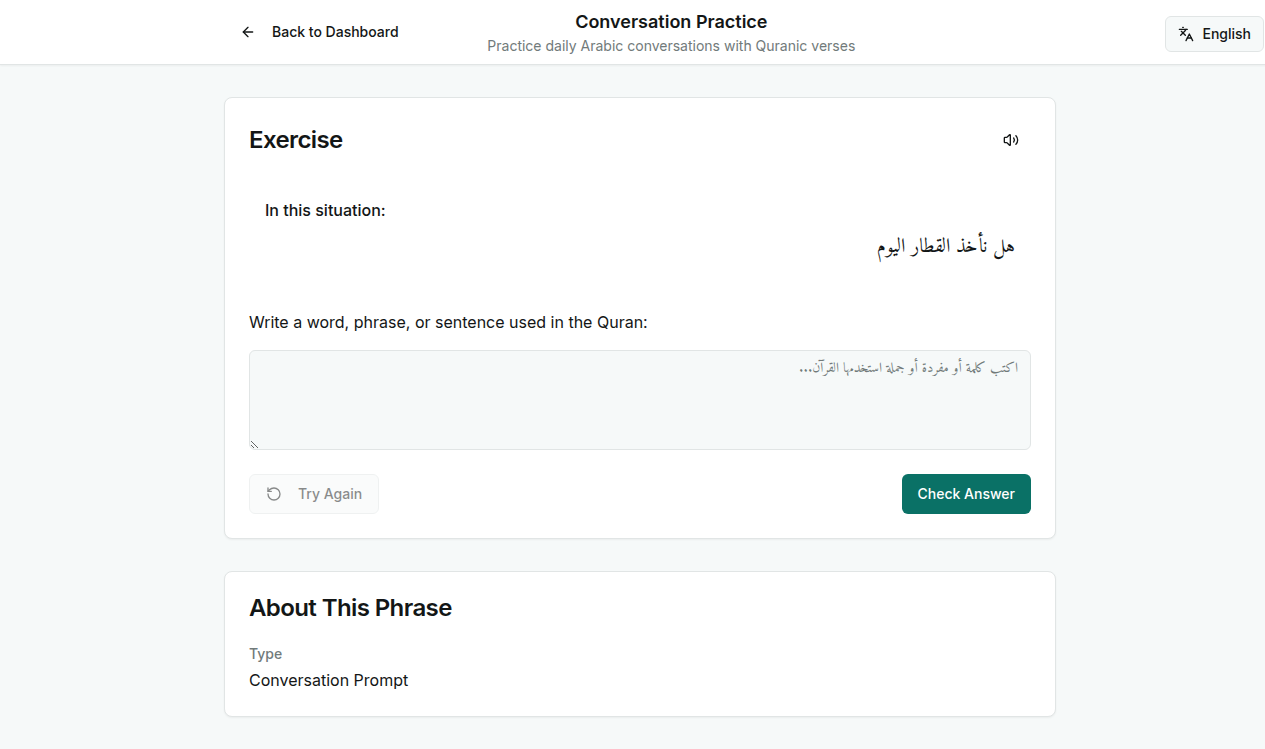
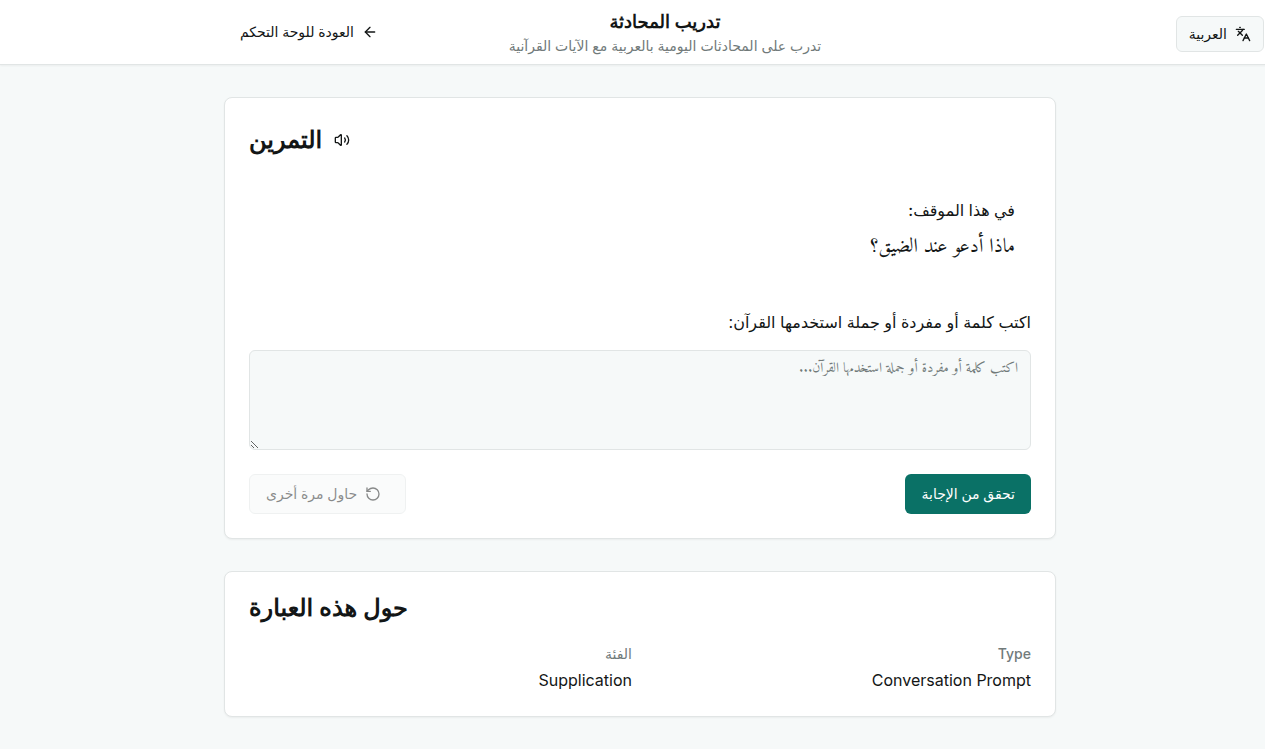
Add Arabic translations for exercise and scenario pages
Update client/lib/translations.ts and client/pages/exercise.tsx to include Arabic translations for new keys related to the exercise and scenario components.

Replit-Commit-Author: Agent
Replit-Commit-Session-Id: 54e8de31-b608-4159-b2bc-5883d54bbff0
Replit-Commit-Checkpoint-Type: full_checkpoint
Replit-Commit-Event-Id: 1c7c83a6-d97d-4b77-85cb-0d67763bec3f
Replit-Commit-Screenshot-Url: https://storage.googleapis.com/screenshot-production-us-central1/93aa2e94-491d-4864-b451-4bb38c870771/54e8de31-b608-4159-b2bc-5883d54bbff0/gyX4fOg

diff --git a/client/src/lib/translations.ts b/client/src/lib/translations.ts
@@ -45,6 +45,13 @@ export const translations = {
     thematicDesc: "Apply verses to real situations",
     
     // Exercise Page
+    exercise: "Exercise",
+    scenario: "Scenario",
+    aboutThisPhrase: "About This Phrase",
+    aboutThisQuestion: "About This Question",
+    category: "Category",
+    source: "Source",
+    yourResponseInArabic: "Your response in Arabic",
     backToDashboard: "Back to Dashboard",
     checkAnswer: "Check Answer",
     nextExercise: "Next Exercise",
@@ -235,6 +242,13 @@ export const translations = {
     thematicDesc: "طبق الآيات على المواقف الحقيقية",
     
     // Exercise Page
+    exercise: "التمرين",
+    scenario: "السيناريو",
+    aboutThisPhrase: "حول هذه العبارة",
+    aboutThisQuestion: "حول هذا السؤال",
+    category: "الفئة",
+    source: "المصدر",
+    yourResponseInArabic: "إجابتك بالعربية",
     backToDashboard: "العودة للوحة التحكم",
     checkAnswer: "تحقق من الإجابة",
     nextExercise: "التمرين التالي",
@@ -425,6 +439,13 @@ export const translations = {
     thematicDesc: "Terapkan ayat ke situasi nyata",
     
     // Exercise Page
+    exercise: "Latihan",
+    scenario: "Skenario",
+    aboutThisPhrase: "Tentang Frasa Ini",
+    aboutThisQuestion: "Tentang Pertanyaan Ini",
+    category: "Kategori",
+    source: "Sumber",
+    yourResponseInArabic: "Respons Anda dalam bahasa Arab",
     backToDashboard: "Kembali ke Dasbor",
     checkAnswer: "Periksa Jawaban",
     nextExercise: "Latihan Berikutnya",
@@ -615,6 +636,13 @@ export const translations = {
     thematicDesc: "Ayetleri gerçek durumlara uygulayın",
     
     // Exercise Page
+    exercise: "Egzersiz",
+    scenario: "Senaryo",
+    aboutThisPhrase: "Bu İfade Hakkında",
+    aboutThisQuestion: "Bu Soru Hakkında",
+    category: "Kategori",
+    source: "Kaynak",
+    yourResponseInArabic: "Arapça cevabınız",
     backToDashboard: "Gösterge Paneline Dön",
     checkAnswer: "Cevabı Kontrol Et",
     nextExercise: "Sonraki Egzersiz",
@@ -805,6 +833,13 @@ export const translations = {
     thematicDesc: "将经文应用于实际情况",
     
     // Exercise Page
+    exercise: "练习",
+    scenario: "情景",
+    aboutThisPhrase: "关于此短语",
+    aboutThisQuestion: "关于此问题",
+    category: "类别",
+    source: "来源",
+    yourResponseInArabic: "您的阿拉伯语回答",
     backToDashboard: "返回仪表板",
     checkAnswer: "检查答案",
     nextExercise: "下一个练习",
@@ -995,6 +1030,13 @@ export const translations = {
     thematicDesc: "Tumia aya katika hali halisi",
     
     // Exercise Page
+    exercise: "Zoezi",
+    scenario: "Hali",
+    aboutThisPhrase: "Kuhusu Kifungu Hiki",
+    aboutThisQuestion: "Kuhusu Swali Hili",
+    category: "Kategori",
+    source: "Chanzo",
+    yourResponseInArabic: "Jibu lako kwa Kiarabu",
     backToDashboard: "Rudi kwenye Dashibodi",
     checkAnswer: "Angalia Jibu",
     nextExercise: "Zoezi Linalofuata",

diff --git a/client/src/pages/exercise.tsx b/client/src/pages/exercise.tsx
@@ -544,7 +544,7 @@ export default function Exercise() {
               <div className="flex items-start space-x-3">
                 <span className="text-2xl">👥</span>
                 <div>
-                  <p className="text-foreground font-medium mb-2">Scenario:</p>
+                  <p className="text-foreground font-medium mb-2">{t('scenario')}:</p>
                   <p
                     className="text-foreground"
                     data-testid="text-roleplay-scenario"
@@ -556,7 +556,7 @@ export default function Exercise() {
                 </div>
               </div>
             </div>
-            <p className="text-foreground">Your response in Arabic:</p>
+            <p className="text-foreground">{t('yourResponseInArabic')}:</p>
             <Textarea
               className="arabic-text text-right text-lg min-h-[100px]"
               placeholder="استخدم آية مناسبة للمواساة والأمل..."
@@ -645,7 +645,7 @@ export default function Exercise() {
         <Card className="mb-8">
           <CardHeader>
             <CardTitle className="flex items-center justify-between">
-              <span>Exercise</span>
+              <span>{t('exercise')}</span>
               <div className="flex items-center space-x-2">
                 {isThematicExercise && questionBank ? (
                   <span className="text-sm text-muted-foreground">
@@ -747,7 +747,7 @@ export default function Exercise() {
         <Card>
           <CardHeader>
             <CardTitle>
-              {isThematicExercise ? "About This Question" : "About This Phrase"}
+              {isThematicExercise ? t('aboutThisQuestion') : t('aboutThisPhrase')}
             </CardTitle>
           </CardHeader>
           <CardContent>
@@ -856,7 +856,7 @@ export default function Exercise() {
                   {conversationPrompt.category && (
                     <div>
                       <p className="text-sm font-medium text-muted-foreground mb-1">
-                        Category
+                        {t('category')}
                       </p>
                       <p className="text-foreground capitalize" data-testid="text-conversation-category">
                         {conversationPrompt.category}
@@ -893,7 +893,7 @@ export default function Exercise() {
                 <div className="grid grid-cols-1 md:grid-cols-2 gap-4">
                   <div>
                     <p className="text-sm font-medium text-muted-foreground mb-1">
-                      Source
+                      {t('source')}
                     </p>
                     <p
                       className="text-foreground"
@@ -904,7 +904,7 @@ export default function Exercise() {
                   </div>
                   <div>
                     <p className="text-sm font-medium text-muted-foreground mb-1">
-                      Category
+                      {t('category')}
                     </p>
                     <p
                       className="text-foreground capitalize"
